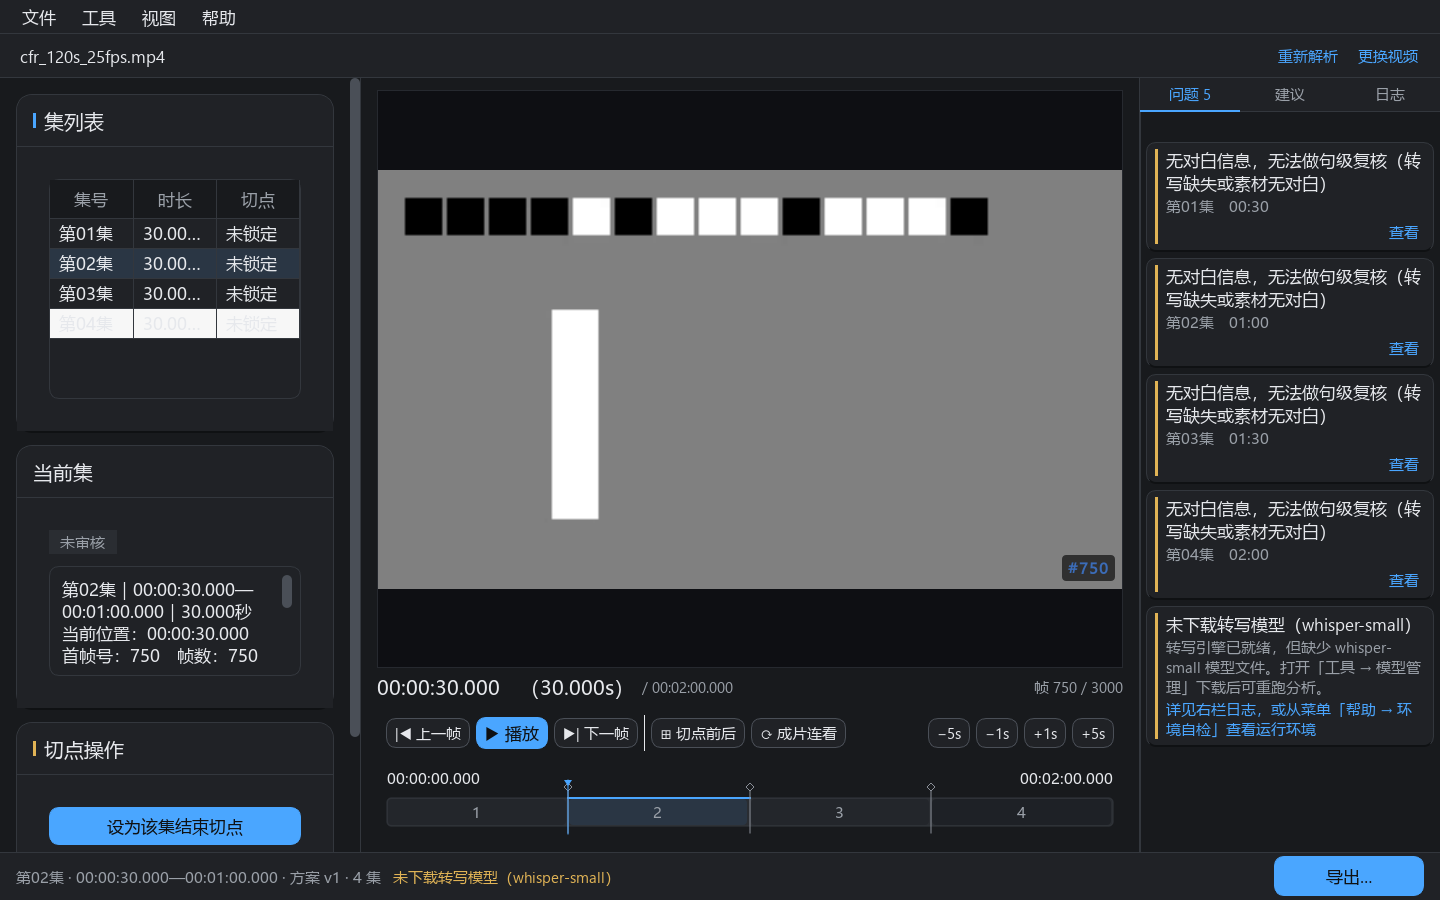
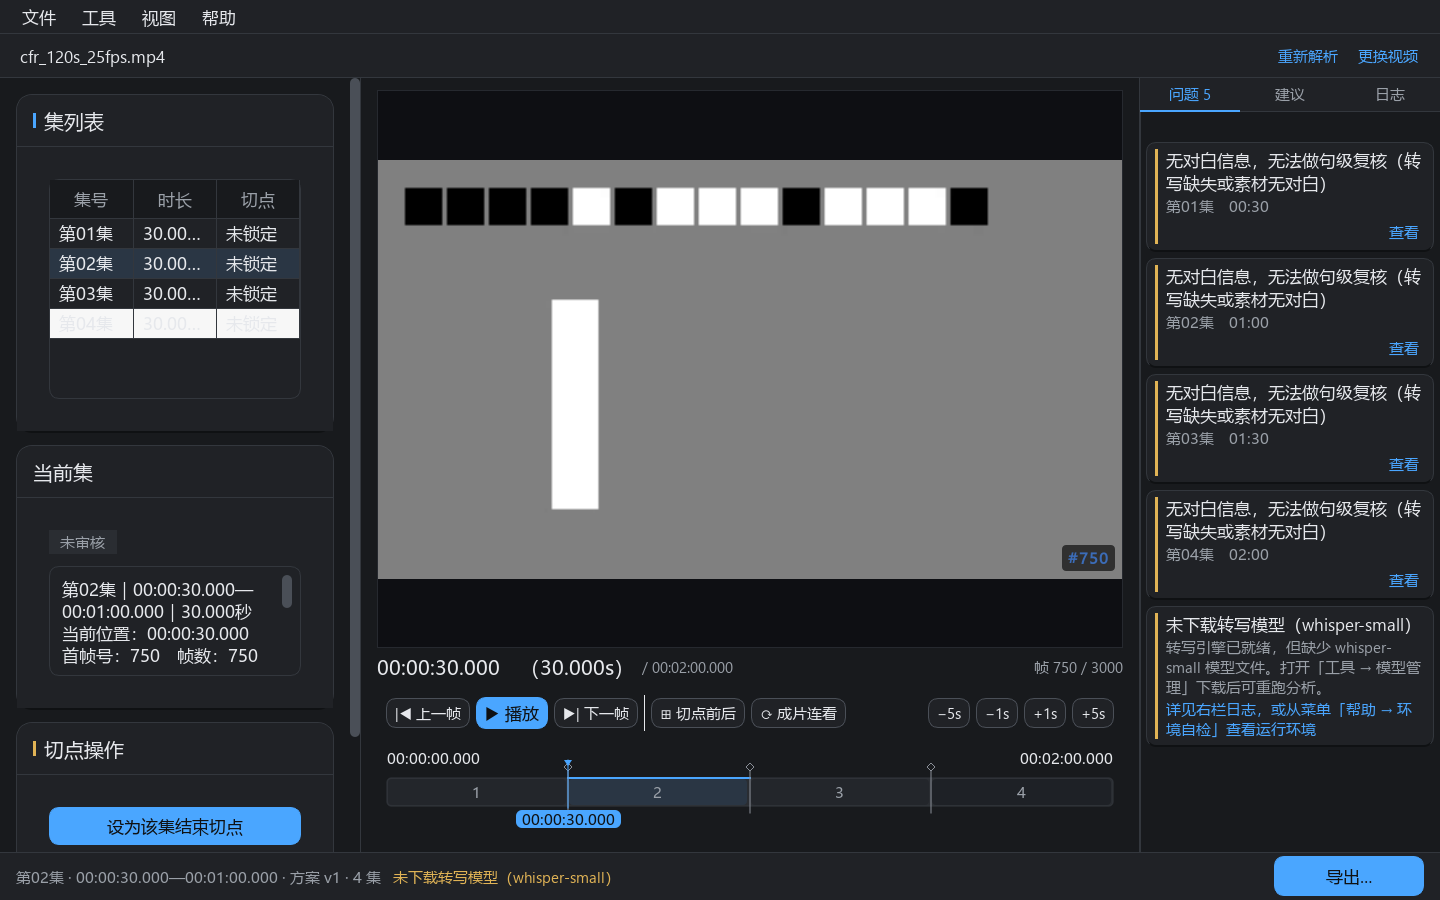
feat(ui): 补齐版式方案的两处细节——时间轴加高 + 播放头时间气泡、建议页签带计数（v1.0.19）
目标里「中栏：时间轴加高并给播放头加时间气泡」「右栏：页签带计数」此前只做了一半：

- 时间轴：72 → 92px，轨道下方加播放头**时间气泡**（HH:MM:SS.mmm，拖动时不必回头看
  上面的时间码行）；播放头竖线随之延长、脏矩形从 13px 加宽到气泡宽度（±66px），
  否则拖动时气泡会留下残影。新增 3 条回归：高度够、气泡真被画出来（像素级断言）、
  脏矩形罩得住气泡。
- 右栏：「建议」页签也带计数（「问题」页签此前已带）。新增 1 条回归。
- README 第 17 条补上这两点；文档截图按最终版式重录（浅/深各 9 张）。

- app/gui/widgets/timeline.py      BUBBLE_* 常量 + _draw_playhead_bubble + 脏矩形
- app/gui/widgets/inspector.py     set_advice 里更新「建议 N」页签
- tests/test_gui_timeline.py       3 条气泡回归
- tests/test_gui_smoke.py          1 条页签计数回归

测试：界面 293 passed（smoke 220 + log 24 + timeline 21 + theme 20 + ui_smoke 8）；
其余 666 passed / 29 skipped / 3 failed（仅因本机未装可选的 PySceneDetect）。

diff --git a/app/gui/widgets/timeline.py b/app/gui/widgets/timeline.py
@@ -52,6 +52,13 @@ class TimelineRuler(QWidget):
     MARGIN = 10                                  # 左右留白（放时长标注）
     TRACK_TOP = 30                               # 轨道上沿
     TRACK_HEIGHT = 28                            # 轨道高：20 偏扁，集号挤在中间看不清
+    # 播放头的**时间气泡**：轨道下方那一条（拖动时不必回头看上面的时间码行）。
+    # 高度 72 → 92 就是为它留的：轨道到 58 结束，气泡占 62–80，两侧留 4px 余量。
+    BUBBLE_TOP = 62
+    BUBBLE_HEIGHT = 18
+    BUBBLE_RADIUS = 6
+    BUBBLE_MAX_WIDTH = 132                       # 比它还宽就截（HH:MM:SS.mmm 够用）
+    HEIGHT = 92
     SEGMENT_GAP = 2                              # 分段之间的缝
     SEGMENT_RADIUS = 4                           # 分段圆角
     MARKER_OVERHANG = 7                          # 切点竖线超出轨道的高度
@@ -60,7 +67,7 @@ class TimelineRuler(QWidget):
 
     def __init__(self, parent: QWidget | None = None) -> None:
         super().__init__(parent)
-        self.setFixedHeight(72)
+        self.setFixedHeight(self.HEIGHT)
         self.setMouseTracking(True)
         self.setCursor(Qt.CursorShape.PointingHandCursor)
 
@@ -385,19 +392,42 @@ class TimelineRuler(QWidget):
     def _draw_playhead(self, painter: QPainter) -> None:
         seconds = self._drag_seconds if self._drag == "playhead" else self._playhead
         x = int(self._x_from_seconds(seconds))
-        painter.setPen(QPen(QColor(qcolor(current_mode(), "PRIMARY")), 1))
-        painter.drawLine(x, 12, x, self.TRACK_TOP + self.TRACK_HEIGHT + 8)
-        painter.setBrush(QBrush(QColor(qcolor(current_mode(), "PRIMARY"))))
+        color = QColor(qcolor(current_mode(), "PRIMARY"))
+        painter.setPen(QPen(color, 1))
+        painter.drawLine(x, 12, x, self.BUBBLE_TOP - 2)
+        painter.setBrush(QBrush(color))
         painter.setPen(Qt.PenStyle.NoPen)
         painter.drawPolygon(QPolygon([
             QPoint(x - 4, 12), QPoint(x + 4, 12), QPoint(x, 18),
         ]))
+        self._draw_playhead_bubble(painter, x, seconds)
+
+    def _draw_playhead_bubble(self, painter: QPainter, x: int, seconds) -> None:
+        """播放头下方的当前时间气泡（拖动播放头时看得最清楚）。"""
+        from ...core.timebase import format_timecode
+
+        mode = current_mode()
+        text = format_timecode(seconds)
+        font = QFont(FONT_MONO.split(",")[0].strip("'"))
+        font.setPointSize(FONT_SIZE_CAPTION)
+        painter.setFont(font)
+        metrics = painter.fontMetrics()
+        width = min(self.BUBBLE_MAX_WIDTH, metrics.horizontalAdvance(text) + 12)
+        # 贴着边缘时把气泡拉回可视区内（不然会画到控件外面）
+        left = min(max(0, x - width // 2), max(0, self.width() - width))
+        rect = QRect(left, self.BUBBLE_TOP, width, self.BUBBLE_HEIGHT)
+        painter.setPen(Qt.PenStyle.NoPen)
+        painter.setBrush(QBrush(QColor(qcolor(mode, "PRIMARY"))))
+        painter.drawRoundedRect(rect, self.BUBBLE_RADIUS, self.BUBBLE_RADIUS)
+        painter.setPen(QColor(qcolor(mode, "TEXT_INVERSE")))
+        painter.drawText(rect, Qt.AlignmentFlag.AlignCenter, text)
+        painter.setFont(self.font())          # 画笔状态还给调用方
 
     def _draw_drag_preview(self, painter: QPainter) -> None:
         x = int(self._x_from_seconds(self._drag_seconds))
         pen = QPen(QColor(qcolor(current_mode(), "PRIMARY")), 1, Qt.PenStyle.DashLine)
         painter.setPen(pen)
-        painter.drawLine(x, 12, x, self.TRACK_TOP + self.TRACK_HEIGHT + 8)
+        painter.drawLine(x, 12, x, self.BUBBLE_TOP - 2)
         if self._error_message:
             painter.setPen(QColor(qcolor(current_mode(), "DANGER")))
             painter.drawText(QRect(x + 6, 2, 320, 16),
@@ -407,7 +437,9 @@ class TimelineRuler(QWidget):
         if self._media is None or self._total_seconds() <= 0:
             return None
         x = int(self._x_from_seconds(self._playhead))
-        return QRect(x - 6, 10, 13, self.TRACK_TOP + self.TRACK_HEIGHT + 10)
+        # 气泡比播放头宽得多：脏矩形要把它整个罩住，否则拖动会留下残影
+        half = self.BUBBLE_MAX_WIDTH // 2 + 4
+        return QRect(x - half, 0, half * 2, self.height())
 
     # ---- 交互 ----------------------------------------------------------
 

diff --git a/tests/test_gui_timeline.py b/tests/test_gui_timeline.py
@@ -290,3 +290,35 @@ class TestStylesheetGuard:
             if "font-size" in body and "font-family" not in body
         ]
         assert not offenders, f"{mode} 主题下缺少 font-family 的规则：{offenders}"
+
+
+class TestPlayheadBubble:
+    """播放头的**时间气泡**：时间轴加高就是为它留的（拖动时不必回头看上面的时间码行）。"""
+
+    def test_ruler_is_tall_enough_for_the_bubble(self, ruler):
+        assert ruler.height() >= 88, "时间轴要留出轨道下方气泡的高度"
+        assert ruler.BUBBLE_TOP + ruler.BUBBLE_HEIGHT <= ruler.height()
+
+    def test_bubble_is_actually_painted(self, ruler):
+        from PySide6.QtGui import QColor
+
+        from app.gui.theme import current_mode, qcolor
+
+        ruler.set_project(_Media(), _plan(), {}, 1)
+        ruler.set_playhead(Fraction(30))
+        image = _paint(ruler).toImage()
+
+        y = ruler.BUBBLE_TOP + ruler.BUBBLE_HEIGHT // 2
+        primary = QColor(qcolor(current_mode(), "PRIMARY")).rgb()
+        row = [QColor(image.pixel(x, y)).rgb() for x in range(image.width())]
+        assert primary in row, "播放头气泡没画出来（气泡底色应是主色）"
+
+    def test_dirty_rect_covers_the_bubble(self, ruler):
+        """脏矩形必须罩住气泡——否则拖动播放头会留下残影。"""
+        ruler.set_project(_Media(), _plan(), {}, 1)
+        ruler.set_playhead(Fraction(30))
+        rect = ruler._playhead_rect()
+        assert rect is not None
+        assert rect.top() <= ruler.BUBBLE_TOP
+        assert rect.height() >= ruler.BUBBLE_TOP + ruler.BUBBLE_HEIGHT
+        assert rect.width() >= ruler.BUBBLE_MAX_WIDTH, "气泡比播放头宽，脏矩形也要跟着变宽"

diff --git a/tests/test_gui_smoke.py b/tests/test_gui_smoke.py
@@ -4747,6 +4747,17 @@ class TestReadyPageLayout:
             "切点前后是检视动作，不该和播放抢主色"
         )
 
+    def test_advice_tab_shows_its_count(self, window):
+        """页签带计数：建议里几条、一眼看得见。"""
+        from app.gui.widgets.inspector import InspectorIssue
+
+        insp = window.workbench.inspector
+        insp.set_advice([])
+        assert insp._tabs[1].text() == "建议", "没有建议时不加数字"
+
+        insp.set_advice([InspectorIssue(title="整集复核建议", target_ms=1000)])
+        assert insp._tabs[1].text() == "建议 1", insp._tabs[1].text()
+
     def test_inspector_empty_state_is_compact_with_next_step(self, window):
         insp = window.workbench.inspector
         insp.set_issues([])

diff --git a/app/gui/widgets/inspector.py b/app/gui/widgets/inspector.py
@@ -353,6 +353,8 @@ class Inspector(QFrame):
             self._advice_layout.insertWidget(self._advice_layout.count() - 1, row)
         self._advice_empty.setVisible(not advice)
         self._advice_scroll.setVisible(bool(advice))
+        # 页签带计数：建议里有几条要一眼看得见（问题页签同理，见 _refresh_count）
+        self._tabs[1].setText(f"建议 {len(advice)}" if advice else "建议")
 
     def cycle_issue(self, delta: int) -> InspectorIssue | None:
         """在可定位的问题之间循环巡航（N=下一个 / P=上一个，方案 §54）。

diff --git a/README.md b/README.md
@@ -820,8 +820,10 @@ testdata/          合成素材（不入版本库）
     同时进 tooltip）；格式提示只在**未导入**时出现；末尾补一张「接下来」三步卡（选定源片 →
     开始分析 → 核对切点），导入后第一步自动标「已完成」。
     中栏把当前时间码 / 总时长 / 帧号并成一行（此前总时长在时间轴两端、帧号画在画面上），
-    控制条按用途分三组（逐帧｜检视｜微调）并加分隔线，只有「播放」用主色。
-    右栏空态不再让空列表占满整列，并补「下一步」提示。
+    控制条按用途分三组（逐帧｜检视｜微调）并加分隔线，只有「播放」用主色；
+    **时间轴加高到 92px 并给播放头加了时间气泡**（轨道下方那一条，拖动时不必回头看上面的
+    时间码行；脏矩形同步加宽到气泡宽度，避免拖动留残影）。
+    右栏空态不再让空列表占满整列，并补「下一步」提示；「问题」「建议」两个页签都带计数。
     左栏最小宽度改为**跟着当前页走**：审核页 340px（那几张卡需要），导入页按内容（~200px）——
     既保证审核页卡片不被静默裁切，也不至于让用户在导入页拖不窄（QSplitter 会静默忽略 setSizes）。
     回归测试：`tests/test_gui_smoke.py::TestReadyPageLayout` 五条。
